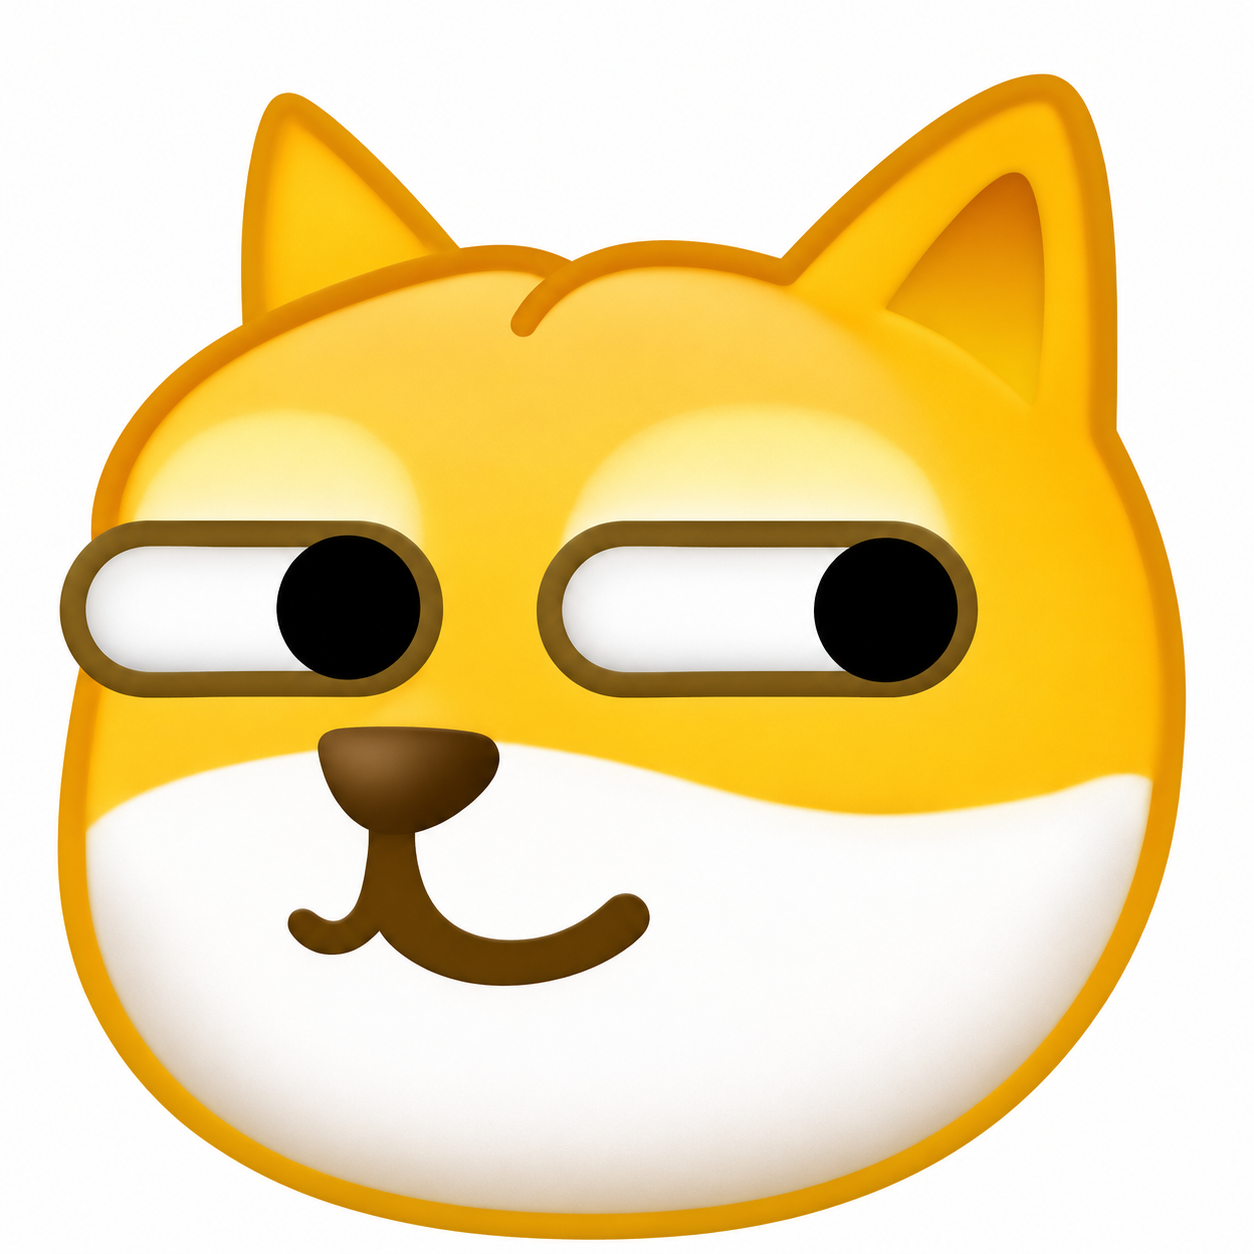
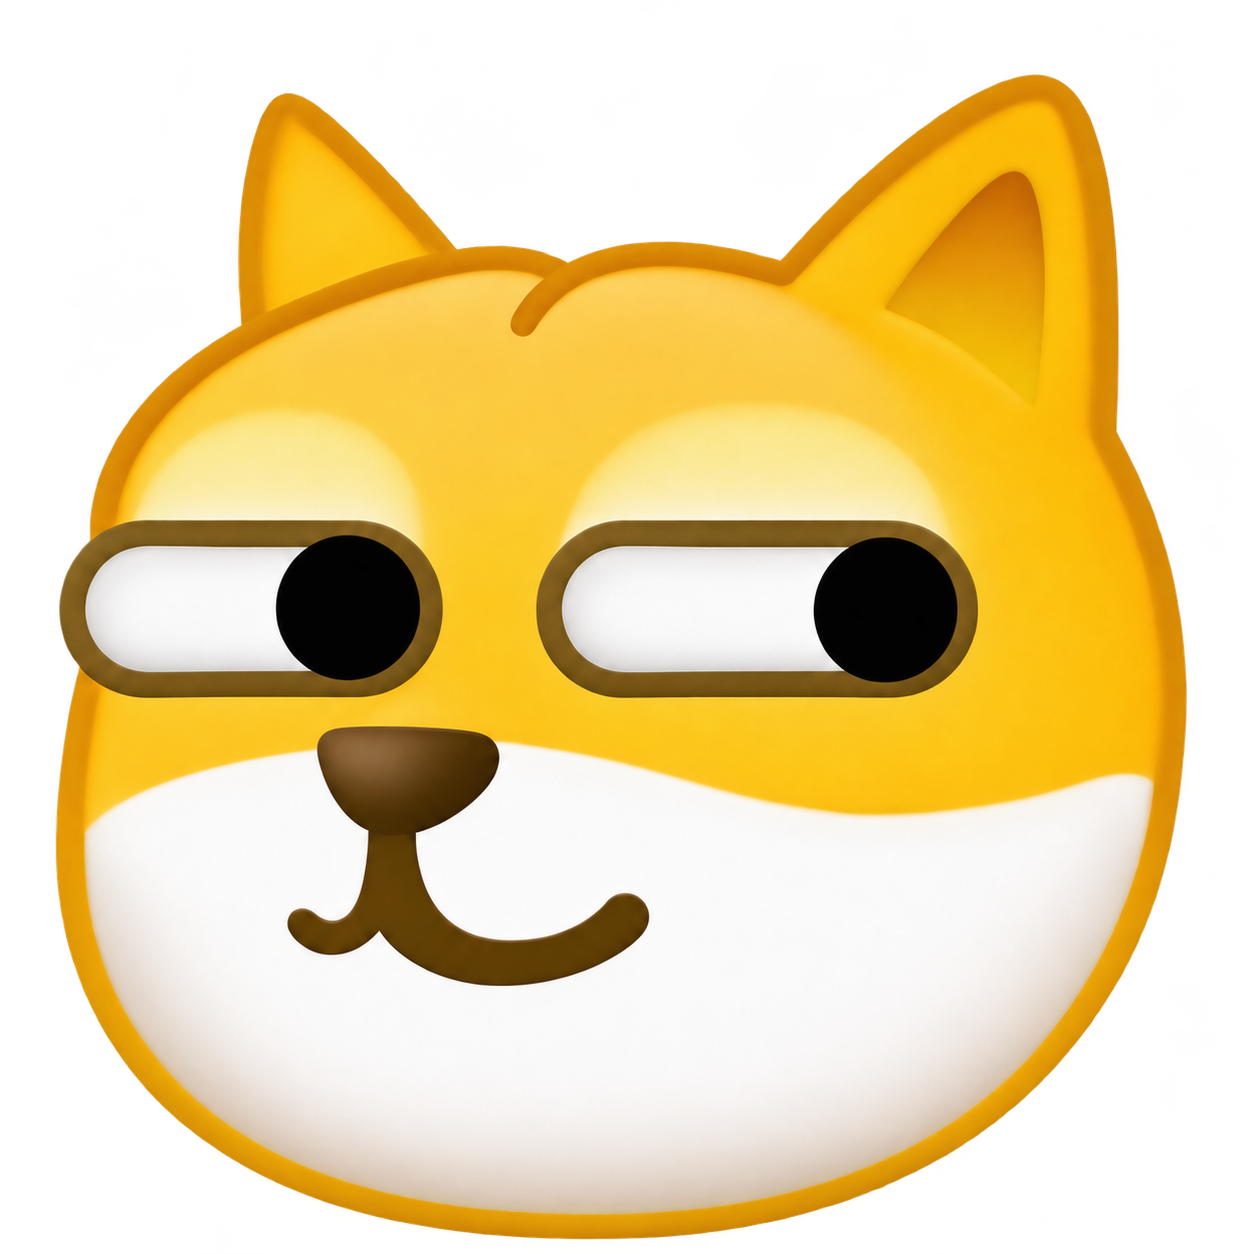
Use transparent doge title image

diff --git a/pixel-is-all-you-need/index.html b/pixel-is-all-you-need/index.html
@@ -21,14 +21,14 @@
 <link rel="preconnect" href="https://fonts.googleapis.com">
 <link rel="preconnect" href="https://fonts.gstatic.com" crossorigin>
 <link href="https://fonts.googleapis.com/css2?family=Inter:wght@400;500;600;700&family=JetBrains+Mono:wght@400;600&family=Playfair+Display:ital,wght@0,700;1,700&display=swap" rel="stylesheet">
-<link rel="stylesheet" href="style.css?v=207d4741">
+<link rel="stylesheet" href="style.css?v=3ac22fcf">
 </head>
 <body>
 
 <nav>
   <canvas id="nav-canvas" aria-hidden="true"></canvas>
   <div class="wrap-wide">
-    <a class="brand" href="#top"><span>Pixel is All You Need</span> <img class="title-doge" src="assets/img/title-doge.png" width="1254" height="1254" alt="狗头"></a>
+    <a class="brand" href="#top"><span>Pixel is All You Need</span> <img class="title-doge" src="assets/img/title-doge.png?v=2" width="1254" height="1254" alt="狗头"></a>
     <ul>
       <li><a href="#abstract">Abstract</a></li>
       <li><a href="#generators">Current Generators</a></li>
@@ -41,7 +41,7 @@
 <!-- HERO -->
 <section class="hero" id="top">
   <div class="wrap">
-    <h1>Pixel is All You <span class="title-ending">Need <img class="title-doge" src="assets/img/title-doge.png" width="1254" height="1254" alt="狗头"></span></h1>
+    <h1>Pixel is All You <span class="title-ending">Need <img class="title-doge" src="assets/img/title-doge.png?v=2" width="1254" height="1254" alt="狗头"></span></h1>
     <p class="tagline">Read, reason and write <em>in pixels</em>.</p>
     <div class="tags"><span>No text tokens</span><span>No tokenizer</span><span>No text encoder</span></div>
 

diff --git a/pixel-is-all-you-need/style.css b/pixel-is-all-you-need/style.css
@@ -216,5 +216,5 @@ figure.scaling-figure { max-width: 680px; margin-left: auto; margin-right: auto;
 
 /* Match the paper title’s doge mark without changing the artwork. */
 .title-ending { white-space: nowrap; }
-.title-doge { display: inline-block; width: .85em; height: .85em; object-fit: contain; vertical-align: -.05em; mix-blend-mode: multiply; }
+.title-doge { display: inline-block; width: .85em; height: .85em; object-fit: contain; vertical-align: -.05em; }
 nav .brand .title-doge { width: 1.15em; height: 1.15em; vertical-align: -.2em; }
